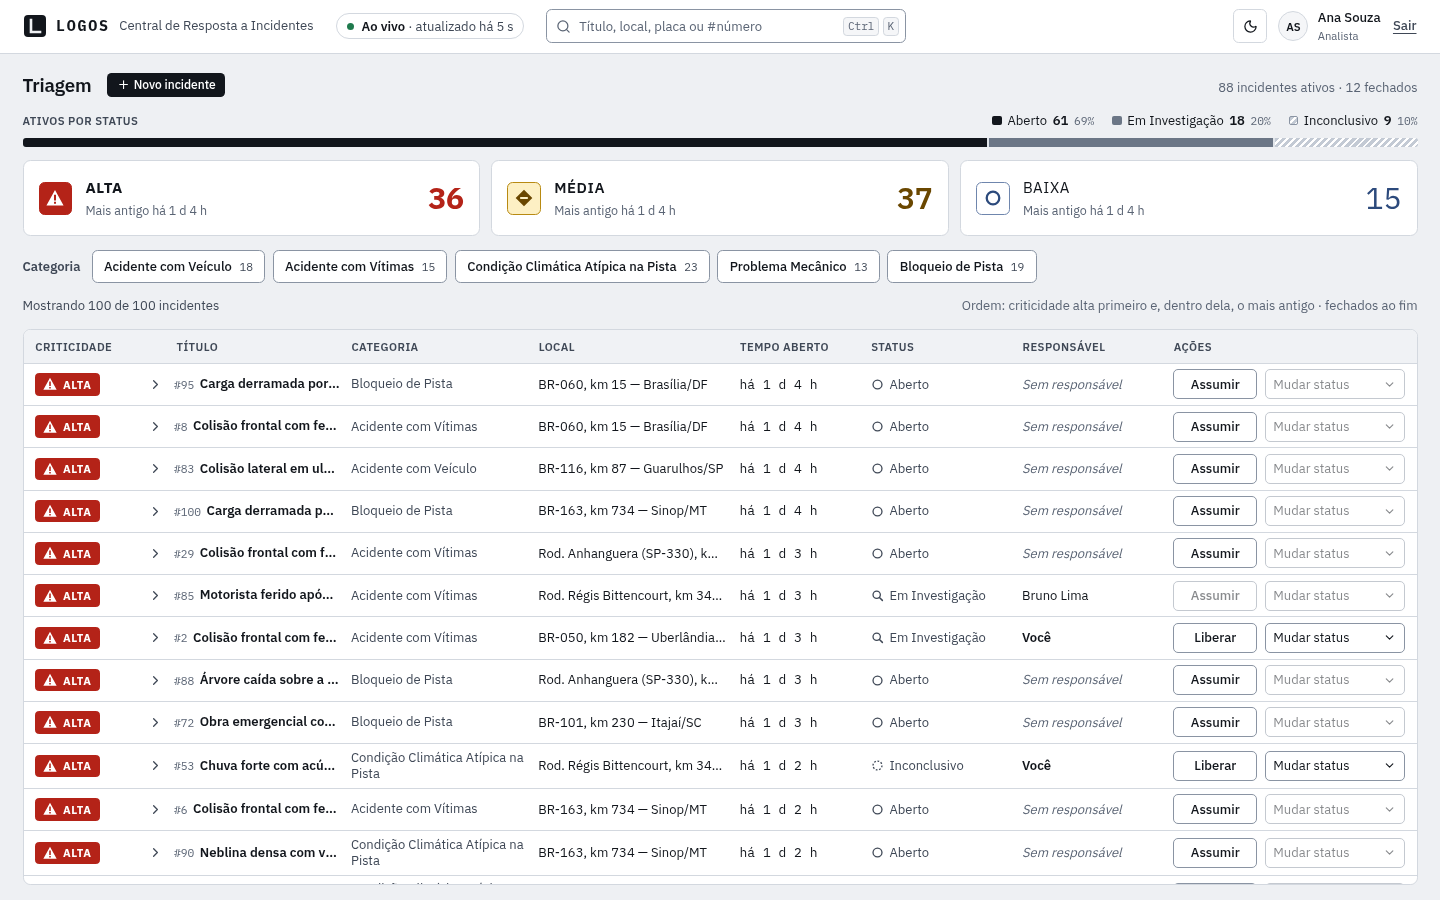
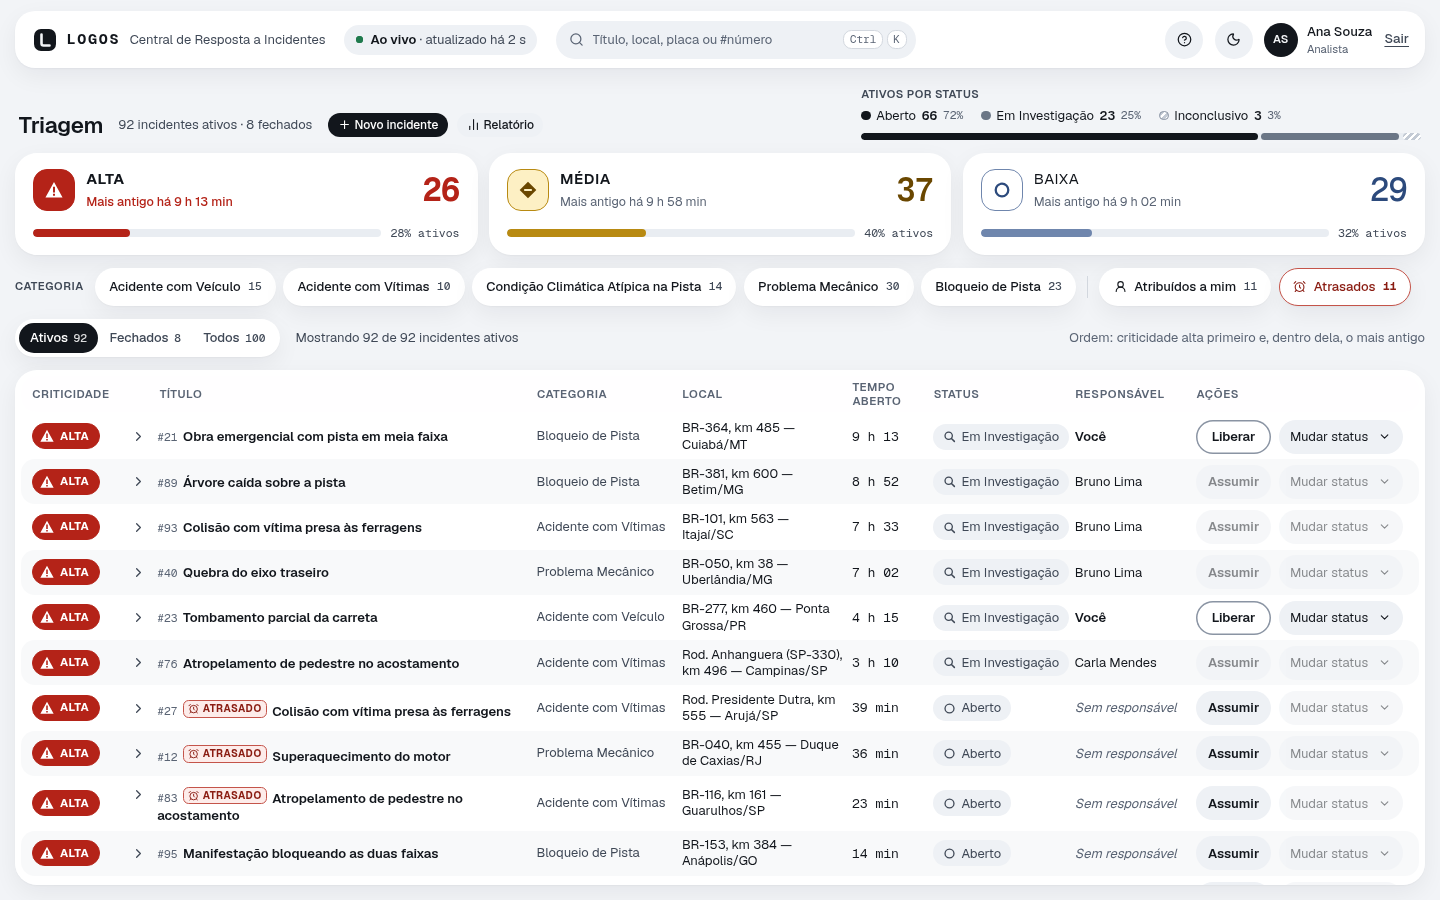
docs(readme): capturas de tela do visual novo e das funções novas
As capturas do README eram do visual de 19/10. Agora mostram a triagem
nos dois temas com o visual novo e, num bloco recolhível, os detalhes de
um incidente (protocolo, motorista, mapa, mesma placa, histórico), o
relatório, o login e a triagem no celular: o avaliador vê o produto
antes de abrir o link.

Refs #29

diff --git a/README.md b/README.md
@@ -20,9 +20,28 @@ anônima ou em outro navegador e altere o mesmo incidente nas duas. A supervisor
 ![Tela de triagem no modo claro](docs/imagens/triagem-claro.png)
 
 <details>
-<summary>Modo escuro</summary>
+<summary>Mais telas: modo escuro, detalhes, relatório, login e celular</summary>
+
+**Modo escuro**
 
 ![Tela de triagem no modo escuro](docs/imagens/triagem-escuro.png)
+
+**Detalhes de um incidente:** protocolo da categoria, contato do motorista, mapa, mesma placa e
+histórico.
+
+![Detalhes de um incidente](docs/imagens/detalhes.png)
+
+**Relatório:** funil do atendimento, tempos e atraso comparados com o período anterior.
+
+![Painel de relatório](docs/imagens/relatorio.png)
+
+**Login**
+
+![Tela de login](docs/imagens/login.png)
+
+**Celular:** cada incidente vira um cartão.
+
+<img src="docs/imagens/celular.png" alt="Triagem no celular" width="300">
 
 </details>
 
